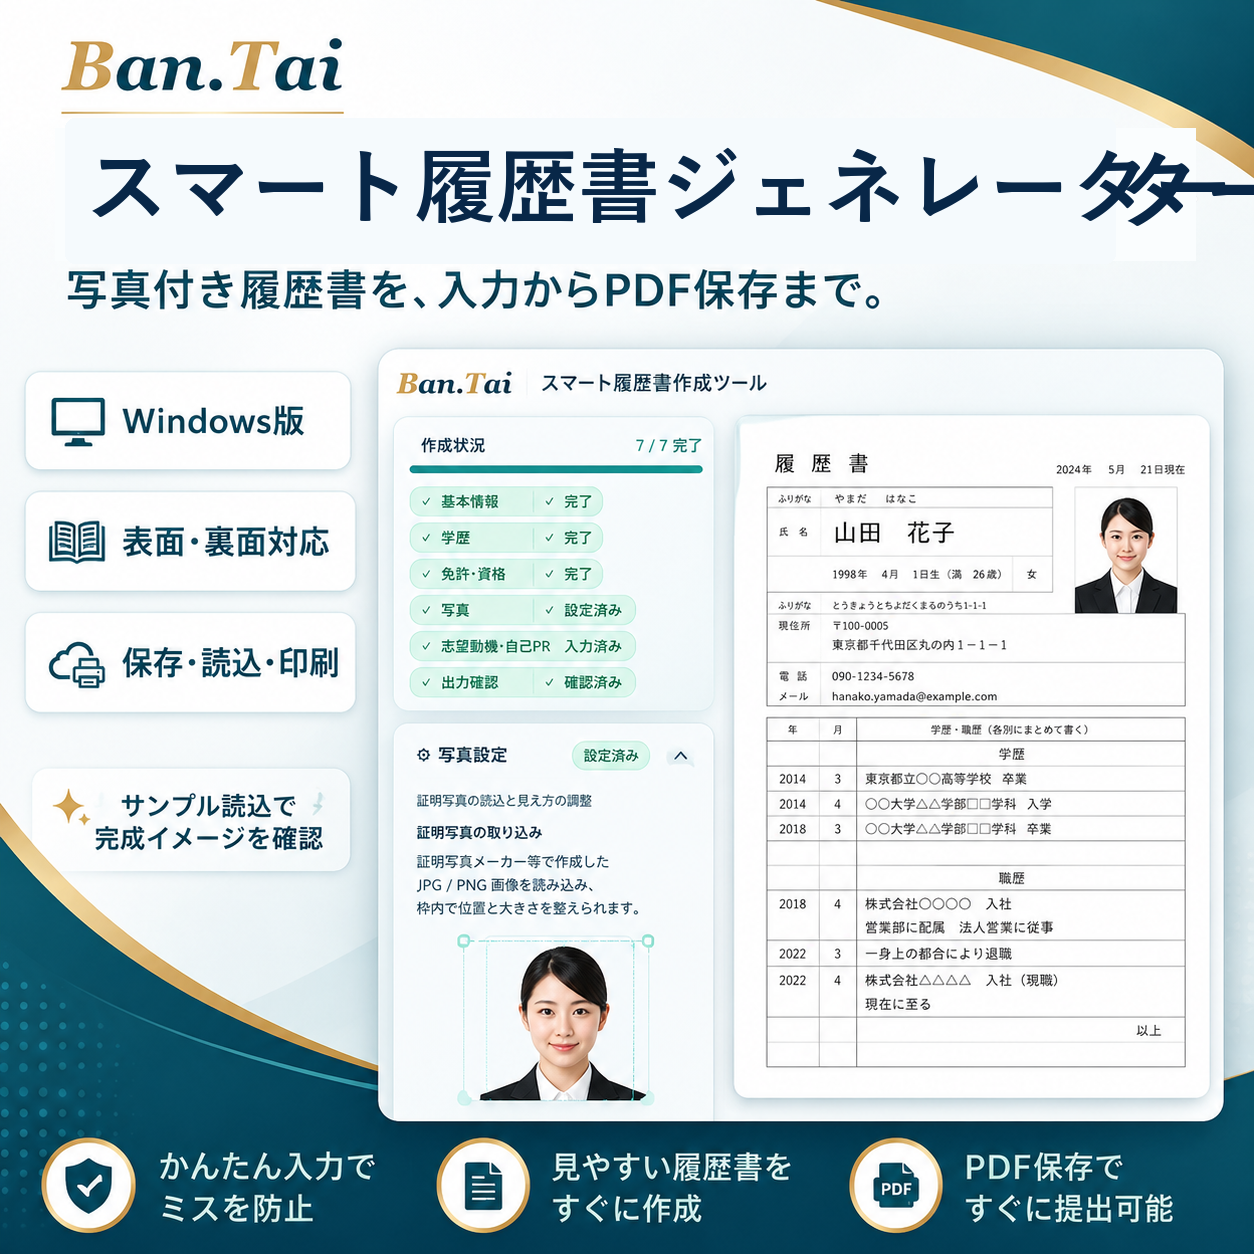
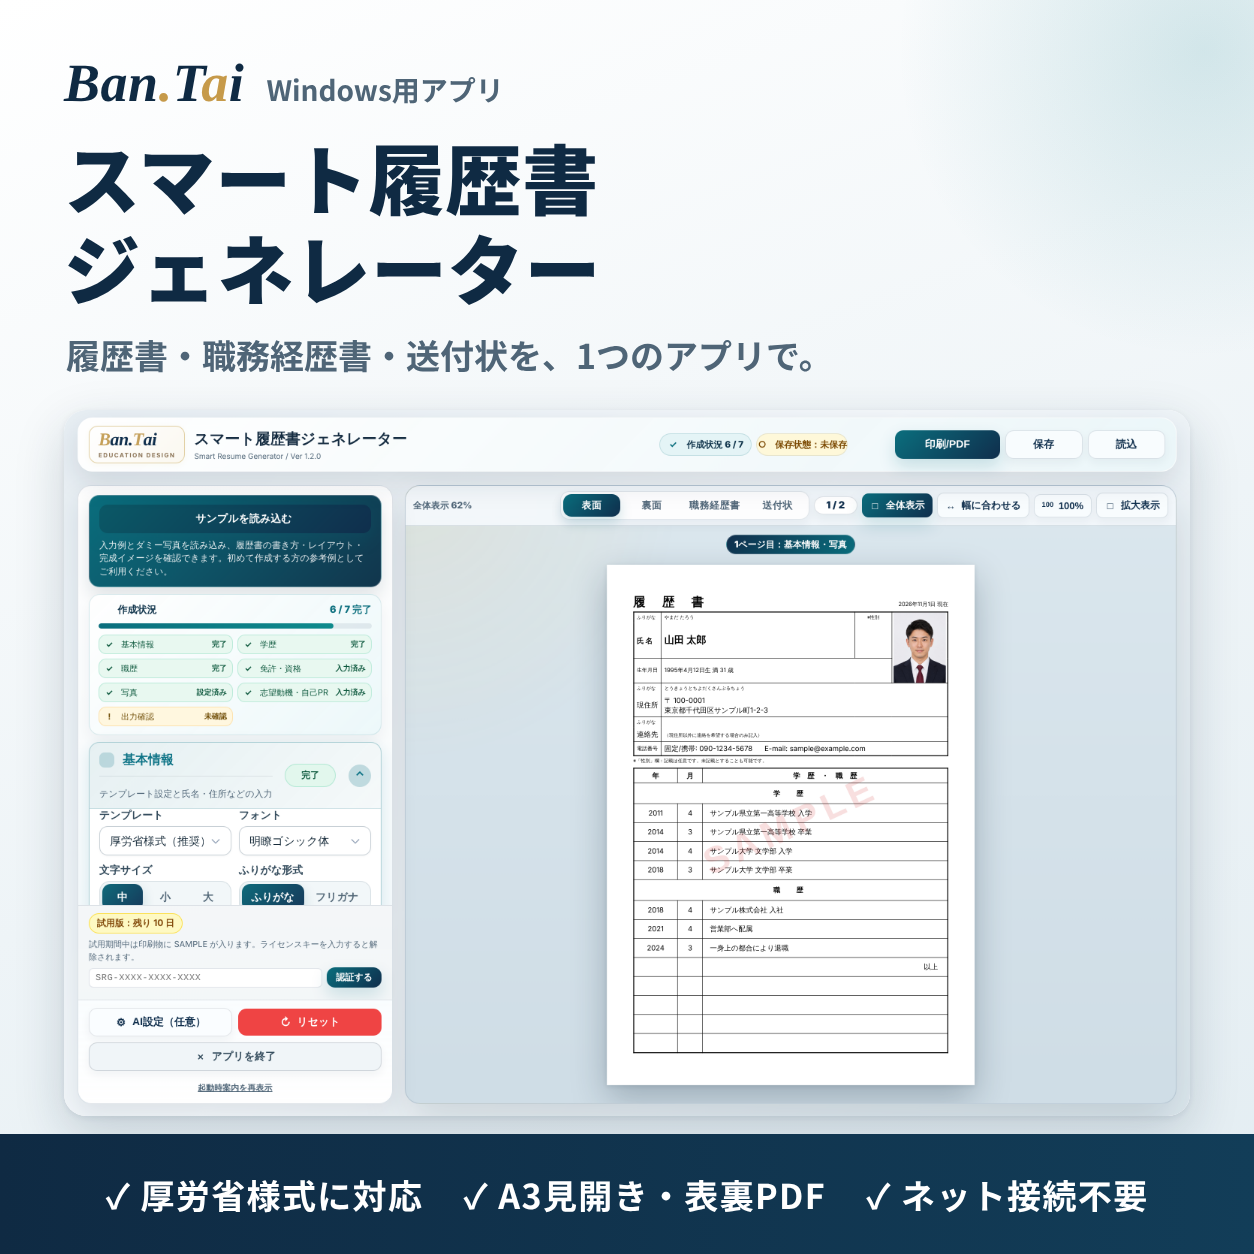
スマート履歴書ジェネレーター v1.2.0 に合わせて製品ページと画像を更新
- 職務経歴書・送付状、和暦表示、自動計算、A3見開きPDFを説明に反映
- 「localStorage保存」など利用者に分かりにくい表記を削除
- 価格（ライセンスキー1,980円）と個別キー方式を記載
- BOOTH用画像5枚を実際の画面・PDF出力から作り直し（日付・性別欄・ロゴ切れを修正）

Claude-Session: https://claude.ai/code/session_01GDrD7GjawgRXbGP6hBz5Z4

diff --git a/products/resume-generator/index.html b/products/resume-generator/index.html
@@ -4,7 +4,7 @@
   <meta charset="utf-8">
   <meta name="viewport" content="width=device-width, initial-scale=1">
   <title>スマート履歴書ジェネレーター | Ban.Tai Education Design</title>
-  <meta name="description" content="スマート履歴書ジェネレーター（Smart Resume Generator）は、履歴書の入力・写真配置・志望動機/自己PR作成に対応し、表面・裏面を正しい向きの2ページPDFとして作成できるWindows用の履歴書作成ツールです。">
+  <meta name="description" content="スマート履歴書ジェネレーター（Smart Resume Generator）は、厚生労働省の履歴書様式例に沿った履歴書と、職務経歴書・送付状を作成し、表裏2ページPDFやA3見開きPDFで出力できるWindows用アプリです。">
   <link rel="icon" type="image/png" href="/assets/images/favicon.png">
   <link rel="preconnect" href="https://fonts.googleapis.com">
   <link rel="preconnect" href="https://fonts.gstatic.com" crossorigin>
@@ -84,15 +84,15 @@
         <div class="hero-text">
           <div class="kicker">Smart Resume Generator</div>
           <h1>スマート履歴書ジェネレーター</h1>
-          <p class="lead">写真付き履歴書を、入力から表裏2ページPDF作成まで支援するWindows用ツールです。基本情報、学歴、職歴、免許・資格、志望動機、自己PR、本人希望欄を順番に入力できます。</p>
-          <p class="hero-note">対応OS：Windows 10 / 11。10日間試用でき、未認証時はPDF・印刷物に SAMPLE 表示が入ります。ライセンスキー認証で SAMPLE 表示を解除できます。</p>
+          <p class="lead">履歴書・職務経歴書・送付状の3点を、1つの画面で仕上げられるWindows用アプリです。厚生労働省の履歴書様式例に沿ったテンプレートを標準搭載し、表裏2ページPDFやコンビニ印刷向けのA3見開きPDFで出力できます。</p>
+          <p class="hero-note">対応OS：Windows 10 / 11。インターネット接続は不要です。10日間無料で試用でき、試用中は印刷物とPDFに SAMPLE の文字が入ります。ライセンスキー（1,980円）で SAMPLE 表示が消えます。</p>
           <div class="actions">
-            <a class="btn btn-primary" href="https://booth.pm/ja/items/8551539" target="_blank" rel="noopener noreferrer">BOOTHでダウンロードする</a>
+            <a class="btn btn-primary" href="https://booth.pm/ja/items/8551539" target="_blank" rel="noopener noreferrer">BOOTHで体験版をダウンロード</a>
             <a class="btn btn-secondary" href="#screenshots">画面イメージを見る</a>
           </div>
         </div>
         <div class="hero-image-container">
-          <img src="/assets/images/resume-generator/booth-1-main.png" alt="スマート履歴書ジェネレーターのBOOTHメイン画像">
+          <img src="/assets/images/resume-generator/booth-1-main.png" alt="スマート履歴書ジェネレーターの入力画面とプレビュー">
         </div>
       </div>
     </section>
@@ -101,15 +101,16 @@
       <div class="container grid grid-2" style="align-items:center;">
         <div>
           <div class="sub">Overview</div>
-          <h2>履歴書づくりを、ひとつの画面で見やすく整える。</h2>
-          <p>スマート履歴書ジェネレーターは、写真付き履歴書をかんたんに作成できるWindows用アプリです。氏名・住所・生年月日などの基本情報から、学歴、職歴、免許・資格、志望動機、自己PR、本人希望欄まで、履歴書に必要な項目を順番に入力できます。</p>
-          <p>画面右側には履歴書のプレビューが表示されるため、仕上がりを確認しながら編集できます。証明写真画像の読み込みにも対応しており、JPG / PNG の写真を読み込み、履歴書の写真枠に合わせて位置や大きさを調整できます。</p>
-          <p>作成した履歴書は、表面・裏面を正しい向きの2ページPDFとして出力できます。実際に両面印刷を行う場合は、作成されたPDFを開き、PDFビューアーまたはプリンター側の印刷画面で「両面印刷」を選択してください。プリンターによっては、プリンタードライバー側で両面印刷設定が必要になる場合があります。</p>
+          <h2>応募書類づくりを、ひとつの画面で。</h2>
+          <p>左側で入力しながら、右側のプレビューで完成形をそのまま確認できます。氏名・住所・学歴・職歴・資格を一度入力すれば、履歴書だけでなく職務経歴書と送付状にも使われるので、同じことを何度も書く必要がありません。</p>
+          <p>年の表記は西暦と和暦をワンタッチで切り替えられ、生年月日から満年齢や入学・卒業年も自動で計算します。手書きで起こりやすい年の書き間違いを防げます。</p>
+          <p>証明写真（JPG / PNG）を読み込み、写真枠の中で位置と大きさを調整できます。入力した内容はパソコンの外に送信しません。</p>
         </div>
         <div class="card gold">
-          <span class="badge" style="width:fit-content; margin-bottom:12px;">BOOTHで公開中</span>
-          <h3>10日間試用版あり</h3>
-          <p>BOOTHで公開中です。10日間試用でき、未認証時はPDF・印刷物に SAMPLE 表示が入ります。ライセンスキーを入力すると SAMPLE 表示が解除されます。</p>
+          <span class="badge" style="width:fit-content; margin-bottom:12px;">BOOTHで販売中</span>
+          <h3>まずは10日間、無料で試せます</h3>
+          <p>体験版ですべての機能を確認できます。お使いのプリンターでの仕上がりまで確かめてから、ライセンスキーをご購入ください。</p>
+          <p>ライセンスキーは購入者ごとの個別キーです。購入後、案内に沿って注文番号を入力するとキーが表示されます。</p>
         </div>
       </div>
     </section>
@@ -121,43 +122,42 @@
         <div class="grid grid-3">
           <div class="card">
             <div class="mark">書</div>
-            <h3>写真付き履歴書の作成</h3>
-            <p>基本情報、学歴、職歴、免許・資格、志望動機、自己PR、本人希望欄を入力できます。</p>
+            <h3>厚生労働省様式の履歴書</h3>
+            <p>性別欄は任意記載、通勤時間・扶養家族の欄がない現在の標準の形です。転職用、アルバイト用（A4×1枚）、旧JIS様式にも切り替えられます。</p>
+          </div>
+          <div class="card">
+            <div class="mark">職</div>
+            <h3>職務経歴書・送付状</h3>
+            <p>職務要約、会社ごとの経歴と実績、スキル、資格、自己PRをA4にまとめます。送付状は会社名と応募職種から整った文面を作ります。</p>
           </div>
           <div class="card">
             <div class="mark">刷</div>
-            <h3>表裏2ページPDFの作成</h3>
-            <p>表面・裏面を正しい向きの2ページPDFとして作成できます。両面印刷はPDFを開いてPDFビューアーまたはプリンタードライバー側で設定します。</p>
-          </div>
-          <div class="card">
-            <div class="mark">文</div>
-            <h3>10日間試用とライセンス認証</h3>
-            <p>試用中・未認証時は SAMPLE 表示が入り、ライセンスキー認証で SAMPLE 表示を解除できます。</p>
+            <h3>表裏PDF・A3見開きPDF</h3>
+            <p>表面と裏面を正しい向きの2ページPDFで作成。A3見開きPDFは、コンビニでA3またはB4に縮小して印刷し、真ん中で折ると市販の履歴書と同じ形になります。</p>
           </div>
         </div>
         <div class="grid grid-2" style="margin-top:24px;">
           <div class="card">
             <h3>入力・編集機能</h3>
             <ul class="notice-list">
-              <li>JIS標準 / 転職用 / アルバイト用テンプレート切替</li>
-              <li>フォント切替 / ふりがな形式切替</li>
-              <li>学歴 / 職歴 / 資格の動的追加</li>
-              <li>志望動機 / 自己PR / 本人希望欄の入力</li>
-              <li>証明写真画像の読み込み</li>
-              <li>写真の位置 / 大きさの調整</li>
-              <li>サンプルデータの読み込み</li>
-              <li>基本情報の保存 / 読込 / 削除</li>
-              <li>localStorage保存</li>
+              <li>厚労省様式 / 転職用 / アルバイト用 / 旧JIS様式の切替</li>
+              <li>年の表記を西暦 / 和暦で切替（入力は西暦のまま）</li>
+              <li>生年月日から満年齢と入学・卒業年を自動計算</li>
+              <li>学歴 / 職歴 / 資格の行を必要なだけ追加</li>
+              <li>志望動機・自己PRの例文アシスト（インターネット不要）</li>
+              <li>証明写真の読み込みと位置・大きさの調整</li>
+              <li>フォント・文字サイズ・ふりがな形式の切替</li>
+              <li>サンプル読込で記入例を確認</li>
             </ul>
           </div>
           <div class="card">
-            <h3>出力・補助機能</h3>
+            <h3>出力・保存</h3>
             <ul class="notice-list">
-              <li>表面・裏面を正しい向きの2ページPDFとして作成</li>
-              <li>印刷用PDFの作成</li>
-              <li>両面印刷はPDFビューアー / プリンタードライバー側で設定</li>
-              <li>Gemini API を使ったAI文章生成（APIキー未設定時はテンプレート文）</li>
-              <li>10日間試用・ライセンスキーで SAMPLE 解除</li>
+              <li>表裏2ページPDF（両面印刷はPDFの印刷画面で設定）</li>
+              <li>A3見開きPDF（コンビニ印刷向け）</li>
+              <li>表面だけ / 裏面だけの印刷にも対応</li>
+              <li>職務経歴書PDF・送付状PDF</li>
+              <li>入力内容をパソコン内に保存し、次回は続きから</li>
             </ul>
           </div>
         </div>
@@ -170,18 +170,17 @@
           <div class="sub">Highlights</div>
           <h2>特色</h2>
           <ul class="notice-list">
-            <li>対応OS は Windows 10 / 11。exe を起動して利用します。</li>
-            <li>表面・裏面を正しい向きの2ページPDFとして作成でき、片面ずつの印刷にも対応します。</li>
-            <li>氏名、住所、連絡先などの基本情報をプロフィールとして保存し、入力の繰り返しを減らせます。</li>
-            <li>履歴書の入力・写真配置・保存・PDF作成・印刷はオフラインで利用できます（AI文章作成のみインターネットとGemini APIキーが必要）。</li>
+            <li>Windows 10 / 11 用。インストール不要で、展開したフォルダーのexeを起動するだけです。</li>
+            <li>入力・写真配置・保存・PDF作成・印刷はすべてオフラインで動きます。</li>
+            <li>氏名や住所は一度入力すれば、履歴書・職務経歴書・送付状のすべてに使われます。</li>
+            <li>和暦変換や年齢・入学卒業年の計算を自動で行い、書き間違いを防ぎます。</li>
           </ul>
         </div>
         <div class="warning">
-          <h3>ライセンスと SAMPLE について</h3>
-          <p>10日間の試用に対応しています。試用中・未認証時は、印刷物・PDFの表面・裏面に SAMPLE 透かしが入ります。ライセンスキーを入力すると SAMPLE 表示が解除されます。</p>
-          <p>BOOTHではアプリ本体を試用版として公開し、ライセンスキー購入により製品利用できる形にします。Vectorは現在登録申請中のため、外部リンクはまだ掲載していません。</p>
-          <h3 style="margin-top:20px;">AI機能・個人情報についての注意</h3>
-          <p>AI文章生成を使う場合は、利用者自身の Gemini API キー設定が必要になる場合があります。履歴書には個人情報が含まれるため、AI機能に入力する内容は利用者自身で確認してください。AIを使わない通常機能はオフラインで利用できます。</p>
+          <h3>体験版とライセンスキー</h3>
+          <p>体験版は10日間すべての機能を使えます。試用中と未認証のときは、印刷物とPDFに SAMPLE の文字が入ります。BOOTHでライセンスキー（1,980円）を購入し、アプリに入力すると SAMPLE の文字が消えます。</p>
+          <h3 style="margin-top:20px;">AI設定（任意）について</h3>
+          <p>例文アシストはインターネットなしで使えます。ご自身の Gemini API キーを登録した場合に限り、例文の代わりにAIが文章を作成し、そのときだけ入力したキーワードが Google に送信されます。履歴書の氏名や住所は送信されません。</p>
         </div>
       </div>
     </section>
@@ -192,36 +191,22 @@
         <h2>画面イメージ</h2>
         <div class="grid grid-2 gallery">
           <div class="visual">
-            <img src="/assets/images/resume-generator/booth-1-main.png" alt="スマート履歴書ジェネレーターのBOOTHメイン画像">
+            <img src="/assets/images/resume-generator/booth-1-main.png" alt="入力画面と履歴書プレビュー">
           </div>
           <div class="visual">
-            <img src="/assets/images/resume-generator/booth-2-complete.png" alt="スマート履歴書ジェネレーターの完成イメージ">
-          </div>
-        </div>
-        <div class="grid grid-2" style="margin-top:24px; align-items:start;">
-          <div class="card">
-            <h3>入力画面と履歴書プレビュー</h3>
-            <p>BOOTH掲載用のメイン画像で、入力パネル、写真設定、履歴書プレビューの全体像を確認できます。</p>
-          </div>
-          <div class="card">
-            <h3>印刷前の確認</h3>
-            <p>表面・裏面の完成イメージ、写真付き履歴書、PDF保存までの流れを確認できます。</p>
+            <img src="/assets/images/resume-generator/booth-2-complete.png" alt="厚生労働省様式の履歴書の表面と裏面">
           </div>
         </div>
         <div class="grid grid-3" style="margin-top:24px;">
           <div class="visual">
-            <img src="/assets/images/resume-generator/booth-3-steps.png" alt="スマート履歴書ジェネレーターのかんたん3ステップ">
+            <img src="/assets/images/resume-generator/booth-3-career-docs.png" alt="職務経歴書と送付状の作成例">
           </div>
           <div class="visual">
-            <img src="/assets/images/resume-generator/booth-4-features.png" alt="スマート履歴書ジェネレーターの便利機能紹介">
+            <img src="/assets/images/resume-generator/booth-4-features.png" alt="和暦変換や入学・卒業年の自動計算などの機能">
           </div>
           <div class="visual">
-            <img src="/assets/images/resume-generator/booth-5-trial-license.png" alt="スマート履歴書ジェネレーターの試用とライセンス説明">
+            <img src="/assets/images/resume-generator/booth-5-trial-license.png" alt="体験版とライセンス認証後の比較">
           </div>
-        </div>
-        <div class="card" style="margin-top:24px;">
-          <h3>基本情報の保存とAIアシスタント</h3>
-          <p>よく使う氏名、住所、連絡先、生年月日などはブラウザ内に保存して再利用できます。文章作成ではAIアシスタントUIを維持しており、テンプレート文フォールバックも利用できます。</p>
         </div>
       </div>
     </section>
@@ -230,14 +215,14 @@
       <div class="container">
         <div class="sub">Distribution</div>
         <h2>配布ページ</h2>
-        <p>BOOTHで10日間試用版を公開中です。Vectorは現在申請中のため、外部ボタンはまだ掲載していません。</p>
+        <p>BOOTHで体験版の配布とライセンスキーの販売を行っています。</p>
         <div class="grid grid-3" style="margin-top:22px;">
           <div class="card">
-            <span class="badge" style="width:fit-content; margin-bottom:12px;">BOOTHで公開中</span>
-            <h3>BOOTHでダウンロードできます</h3>
-            <p>10日間試用できるアプリ本体をBOOTHで公開しています。未認証時はPDF・印刷物に SAMPLE 表示が入り、ライセンスキー認証で解除できます。</p>
+            <span class="badge" style="width:fit-content; margin-bottom:12px;">BOOTHで販売中</span>
+            <h3>体験版（無料）とライセンスキー（1,980円）</h3>
+            <p>体験版で10日間すべての機能を試せます。ライセンスキーを入力すると、印刷物とPDFの SAMPLE の文字が消えます。</p>
             <div class="actions" style="margin-top:16px;">
-              <a class="btn btn-primary" href="https://booth.pm/ja/items/8551539" target="_blank" rel="noopener noreferrer">BOOTHでダウンロードする</a>
+              <a class="btn btn-primary" href="https://booth.pm/ja/items/8551539" target="_blank" rel="noopener noreferrer">BOOTHを開く</a>
             </div>
           </div>
           <div class="card">

diff --git a/index.html b/index.html
@@ -664,7 +664,7 @@
               </div>
               <h3>スマート履歴書ジェネレーター</h3>
               <div class="target-users-row" style="margin-bottom:10px;"><span class="user-tag">一般利用者</span></div>
-              <p>入力・写真配置・印刷までの不便を減らし、書き損じや両面印刷の天地ズレなく仕上げられます。</p>
+              <p>厚生労働省様式の履歴書と、職務経歴書・送付状をまとめて作成。表裏PDFやA3見開きPDFで仕上げられます。</p>
               <div class="product-actions">
                 <a class="btn btn-secondary" href="/products/resume-generator/">詳しく見る</a>
               </div>
